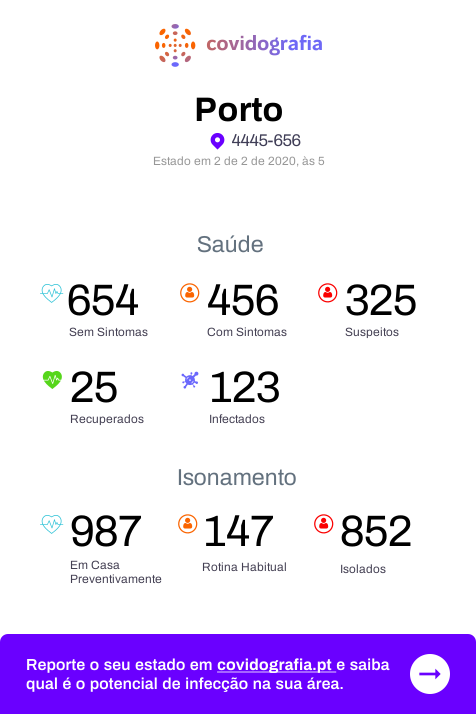
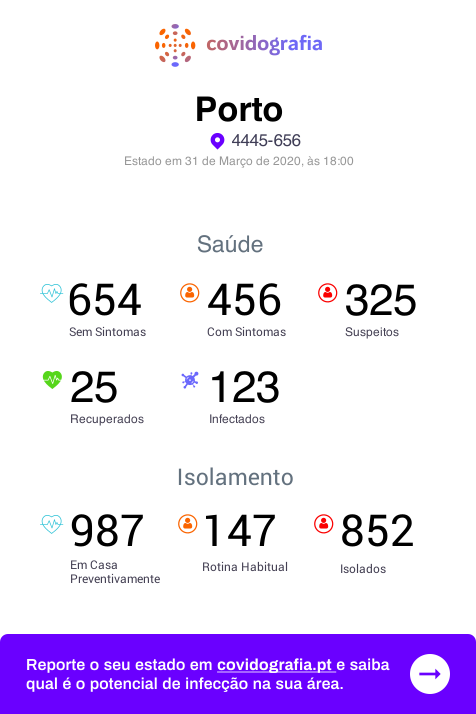
Added Roboto

diff --git a/test-generator.js b/test-generator.js
@@ -1,7 +1,8 @@
 'use strict'
-
+const fs = require('fs');
 const g = require('./services/image-generator')
 
+global.__basedir = __dirname
 const date = new Date()
 const data = {
     city_name: 'Porto',
@@ -16,4 +17,10 @@ const data = {
     rotina_habitual_value: 147,
     isolados_value: 852,
 }
-g.dashboard(data)
+async function generateDashboardImage () {
+    const buffer = await g.dashboard(data);
+    fs.writeFileSync(__dirname +'/resources/dashboard.png', buffer);
+}
+generateDashboardImage ()
+
+
